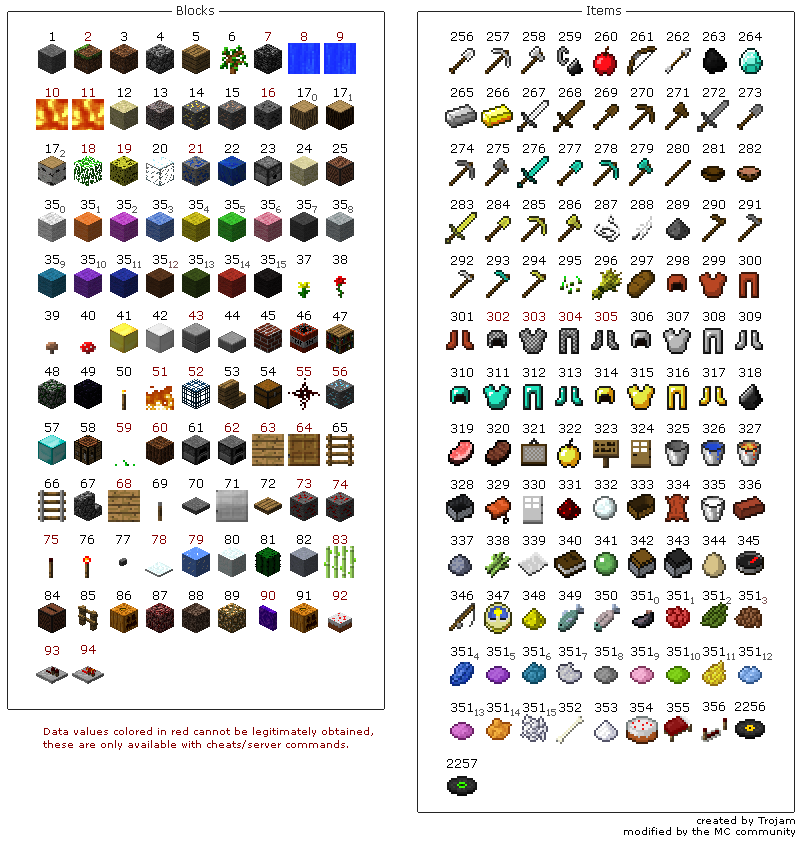
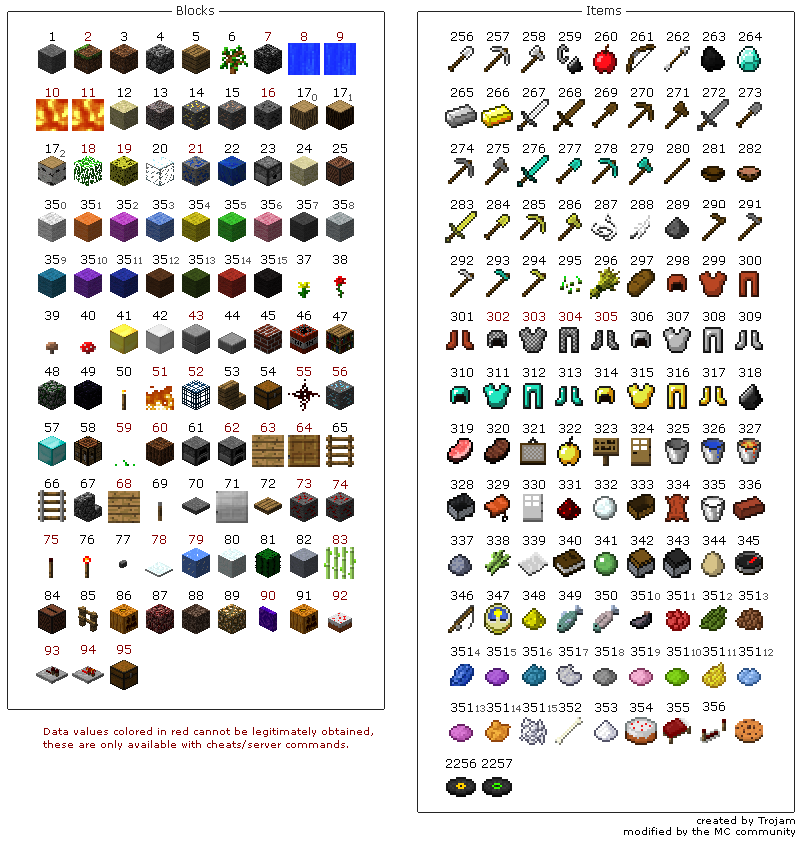
Minecraft 1.4 items added.

diff --git a/Classes/KBScroller.m b/Classes/KBScroller.m
@@ -15,6 +15,7 @@
 - (id)initWithCoder:(NSCoder *)decoder
 {
 	if ((self = [super initWithCoder:decoder])) {
+		usesAlternateStyle = NO;
 		[self setArrowsPosition:NSScrollerArrowsNone];	
 		if ([self bounds].size.width / [self bounds].size.height < 1) {
 			isVertical = YES;
@@ -29,7 +30,6 @@
 {		
 	NSGraphicsContext *ctx = [NSGraphicsContext currentContext];
 
-	
 	// Background
 	if (usesAlternateStyle) {
 		[ctx saveGraphicsState];
@@ -62,7 +62,8 @@
 	
 	NSBezierPath *path = [NSBezierPath bezierPathWithRoundedRect:NSInsetRect([self bounds], 4, 4) xRadius:4 yRadius:4];
 	[path addClip];
-	[[NSColor colorWithCalibratedWhite:0.8 alpha:1.0] set];
+	
+	[[NSColor colorWithCalibratedWhite:0.75 alpha:1.0] set];
 	NSRectFill([self bounds]);
 	
 	[ctx restoreGraphicsState];
@@ -87,7 +88,6 @@
 		[path addClip];
 		
 		[[NSColor colorWithCalibratedWhite:0.5 alpha:1.0] set];
-		
 		NSRectFill(knobRect);
 	}
 	else {
@@ -99,7 +99,6 @@
 		[path addClip];
 		
 		[[NSColor colorWithCalibratedWhite:0.5 alpha:1.0] set];
-		
 		NSRectFill(knobRect);
 	}
 }

diff --git a/Classes/IJInventoryItem.m b/Classes/IJInventoryItem.m
@@ -67,7 +67,7 @@
 	
 	int index = 0;
 	
-	if (itemId <= 94)
+	if (itemId <= 95)
 	{
 		if (itemId <= 17)
 			index = itemId - 1; // first item is 1
@@ -82,19 +82,14 @@
 		index = itemId - 256;
 		atlasOffset = NSMakePoint(445, 75);
 	}
-	else if (itemId >= 352 && itemId <= 356)
+	else if (itemId >= 352 && itemId <= 357)
 	{
 		index = itemId - 241;
 		atlasOffset = NSMakePoint(445, 75);
 	}
-	else if (itemId == 2256)
+	else if (itemId >= 2256 && itemId <= 2257 )
 	{
-		index = 0;
-		atlasOffset = NSMakePoint(445+pixelsPerColumn*8, pixelsPerRow*13 + 18);
-	}
-	else if (itemId == 2257)
-	{
-		index = 0;
+		index = itemId - 2256;
 		atlasOffset = NSMakePoint(445, pixelsPerRow*14+18);
 	}
 	else

diff --git a/Classes/IJWorldCollectionController.m b/Classes/IJWorldCollectionController.m
@@ -103,7 +103,7 @@
 	}
 	
 	NSDateFormatter *formatter = [[NSDateFormatter alloc] init];
-	[formatter setDateFormat:@"'Created:' MMM d yyyy 'at' h:m:s a"];
+	[formatter setDateFormat:@"'Created:' MMM d yyyy 'at' h a"];
 	NSString *fileMeta = [formatter stringFromDate:[fileAttr valueForKey:NSFileCreationDate]];
 	[formatter release];
 	
@@ -119,7 +119,7 @@
 
 - (void)dealloc
 {
-	//Remove the collection view array controller selectionIndexes observer
+	//Remove the collection view selectionIndexes observer
 	[worldCollectionView removeObserver:self forKeyPath:@"selectionIndexes"];
 	[worldArray release];
 	[super dealloc];

diff --git a/Classes/IJInventoryView.m b/Classes/IJInventoryView.m
@@ -255,10 +255,7 @@ const static CGFloat cellOffset = 40;
 	else
 		return NSDragOperationDelete;
 }
-//- (void)draggedImage:(NSImage *)image beganAt:(NSPoint)screenPoint
-//{
-//	NSLog(@"%s", __PRETTY_FUNCTION__);
-//}
+
 - (void)draggedImage:(NSImage *)image endedAt:(NSPoint)screenPoint operation:(NSDragOperation)operation
 {
 	NSLog(@"%s operation=%d", __PRETTY_FUNCTION__, operation);
@@ -272,10 +269,7 @@ const static CGFloat cellOffset = 40;
 		}
 	}
 }
-//- (void)draggedImage:(NSImage *)image movedTo:(NSPoint)screenPoint
-//{
-//	NSLog(@"%s", __PRETTY_FUNCTION__);
-//}
+
 
 
 #pragma mark -

diff --git a/Classes/IJCollectionView.m b/Classes/IJCollectionView.m
@@ -49,9 +49,9 @@
 	NSGraphicsContext *ctx = [NSGraphicsContext currentContext];
 	[ctx saveGraphicsState];
 	
-	
 	if (selected) {
 		NSRect selectionRect = NSInsetRect([self bounds], 5, 5);
+		
 		NSBezierPath *path = [NSBezierPath bezierPathWithRoundedRect:selectionRect xRadius:3 yRadius:3];
 		[path setLineWidth:2];
 		[[NSColor grayColor] set];
@@ -67,7 +67,6 @@
 	}	
 	
 	[ctx restoreGraphicsState];
-	
 }
 
 

diff --git a/Classes/KBScrollView.m b/Classes/KBScrollView.m
@@ -9,6 +9,7 @@
 #import "KBScrollView.h"
 #import "KBScroller.h"
 
+
 @implementation  KBScrollView
 
 - (void)tile {
